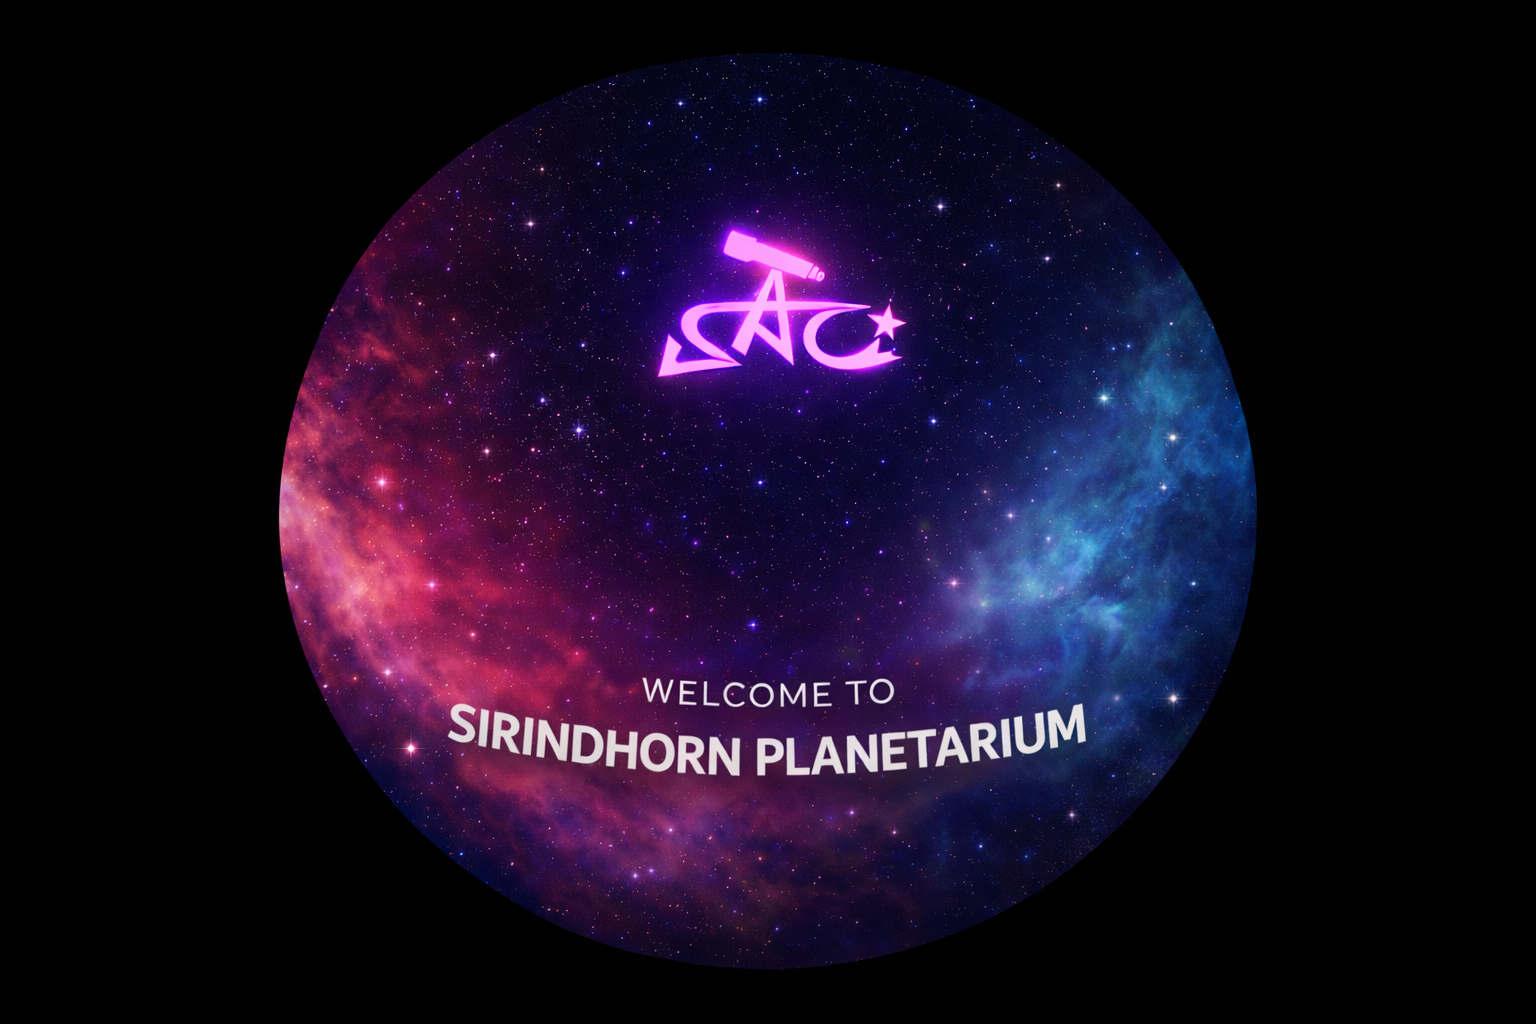
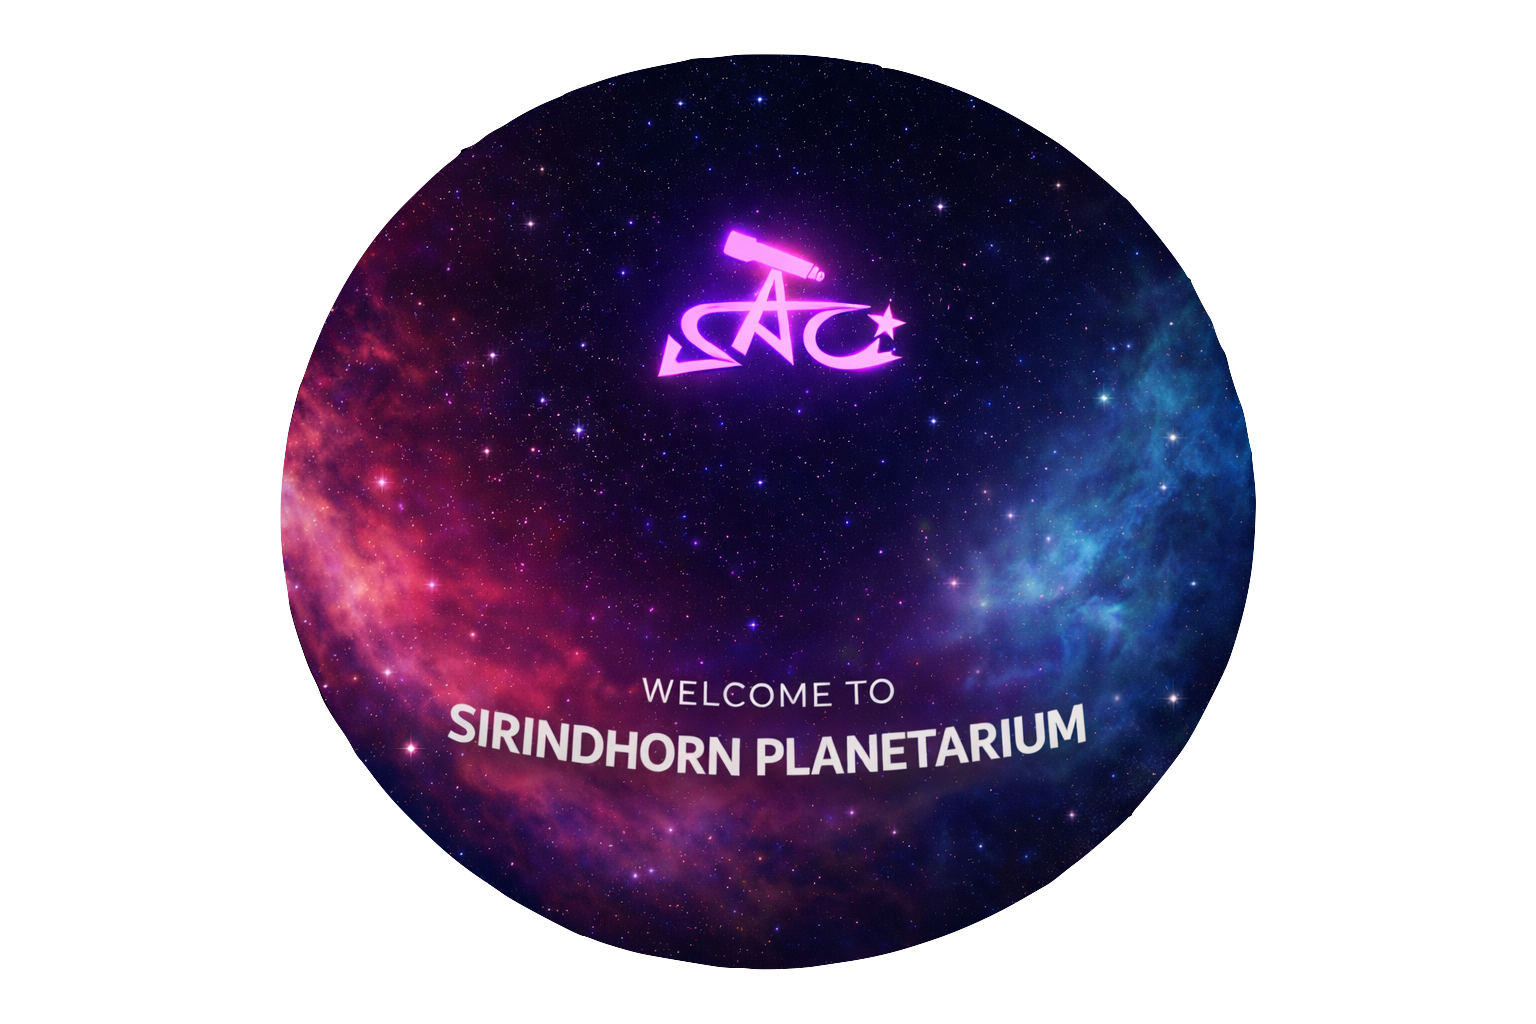
Final fix for Fisheye circle aspect ratio and mesh orientation

diff --git a/main.js b/main.js
@@ -42,17 +42,12 @@ const FisheyeShader = {
         const float PI = 3.14159265359;
 
         void main() {
-            vec2 uv = (vUv - 0.5) * 2.0;
+            vec2 uv = vUv - 0.5;
             float aspect = resolution.x / resolution.y;
+            uv.x *= aspect; // Correct x-axis to match physical scale of y-axis
+
+            float r = length(uv) * 2.0; // r=1.0 at screen edge (vertical)
             
-            // Fix aspect ratio distortion - Ensure perfect circle fits shorter dimension
-            if (aspect > 1.0) {
-                uv.x *= aspect;
-            } else {
-                uv.y /= aspect;
-            }
-            
-            float r = length(uv);
             if (r > 1.0) {
                 gl_FragColor = vec4(0.0, 0.0, 0.0, 1.0);
                 return;
@@ -61,10 +56,11 @@ const FisheyeShader = {
             float theta = atan(uv.y, uv.x);
             float phi = r * PI * 0.5;
 
+            // Sample cube map - Correcting for dome view projection
             vec3 dir = vec3(
-                sin(phi) * cos(theta),
-                cos(phi),
-                sin(phi) * sin(theta)
+                sin(phi) * sin(theta), // X
+                cos(phi),              // Y (Zenith)
+                sin(phi) * cos(theta)  // Z
             );
             
             // Use textureCube for maximum compatibility
@@ -468,11 +464,11 @@ class Planetarium {
             side: THREE.DoubleSide
         });
 
-        const geom = new THREE.PlaneGeometry(2000, 2000); // Larger to ensure full coverage
+        const geom = new THREE.PlaneGeometry(2500, 2500);
         this.welcomeMesh = new THREE.Mesh(geom, mat);
-        this.welcomeMesh.position.set(0, 800, 0); // Position at dome apex
+        this.welcomeMesh.position.set(0, 1000, 0);
         this.welcomeMesh.rotation.x = -Math.PI * 0.5;
-        this.welcomeMesh.rotation.z = Math.PI; // Correct upside-down orientation
+        this.welcomeMesh.rotation.z = 0; // Reset to default
         this.welcomeGroup.add(this.welcomeMesh);
     }
 
